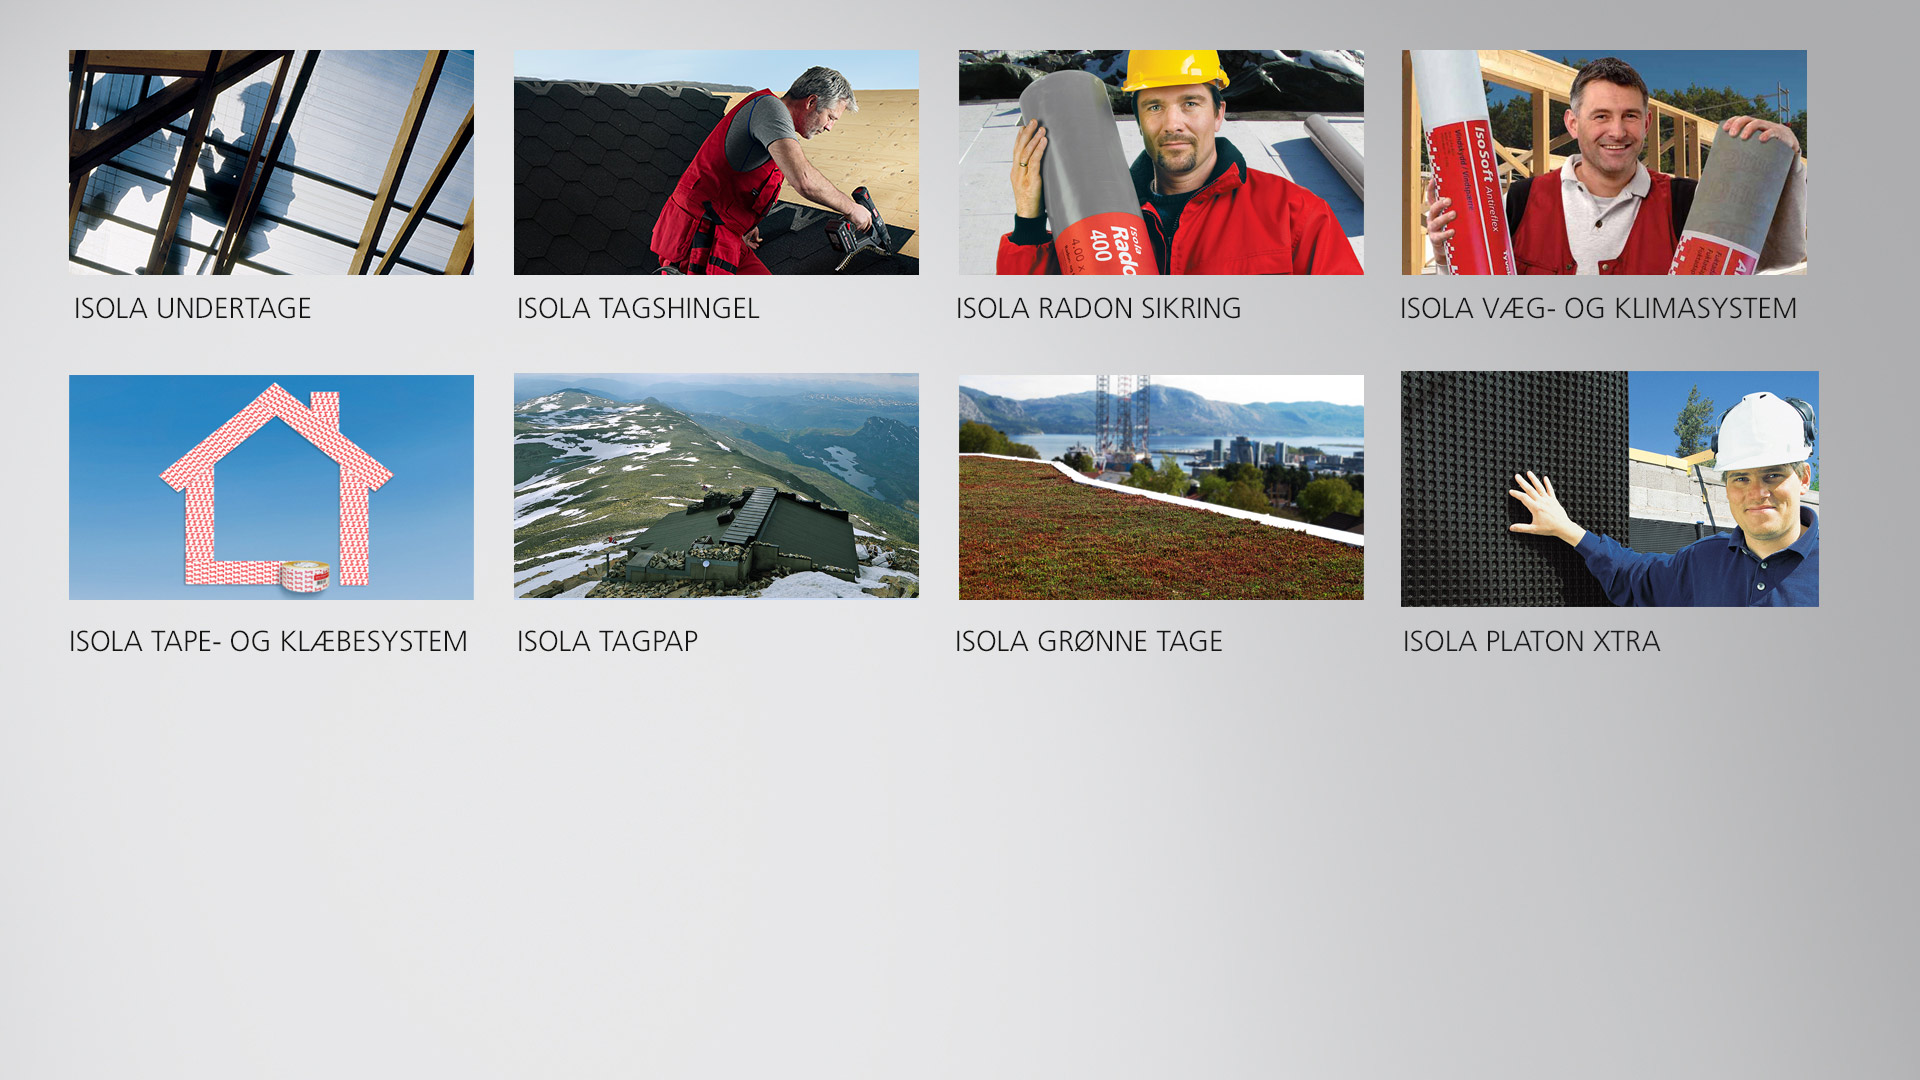
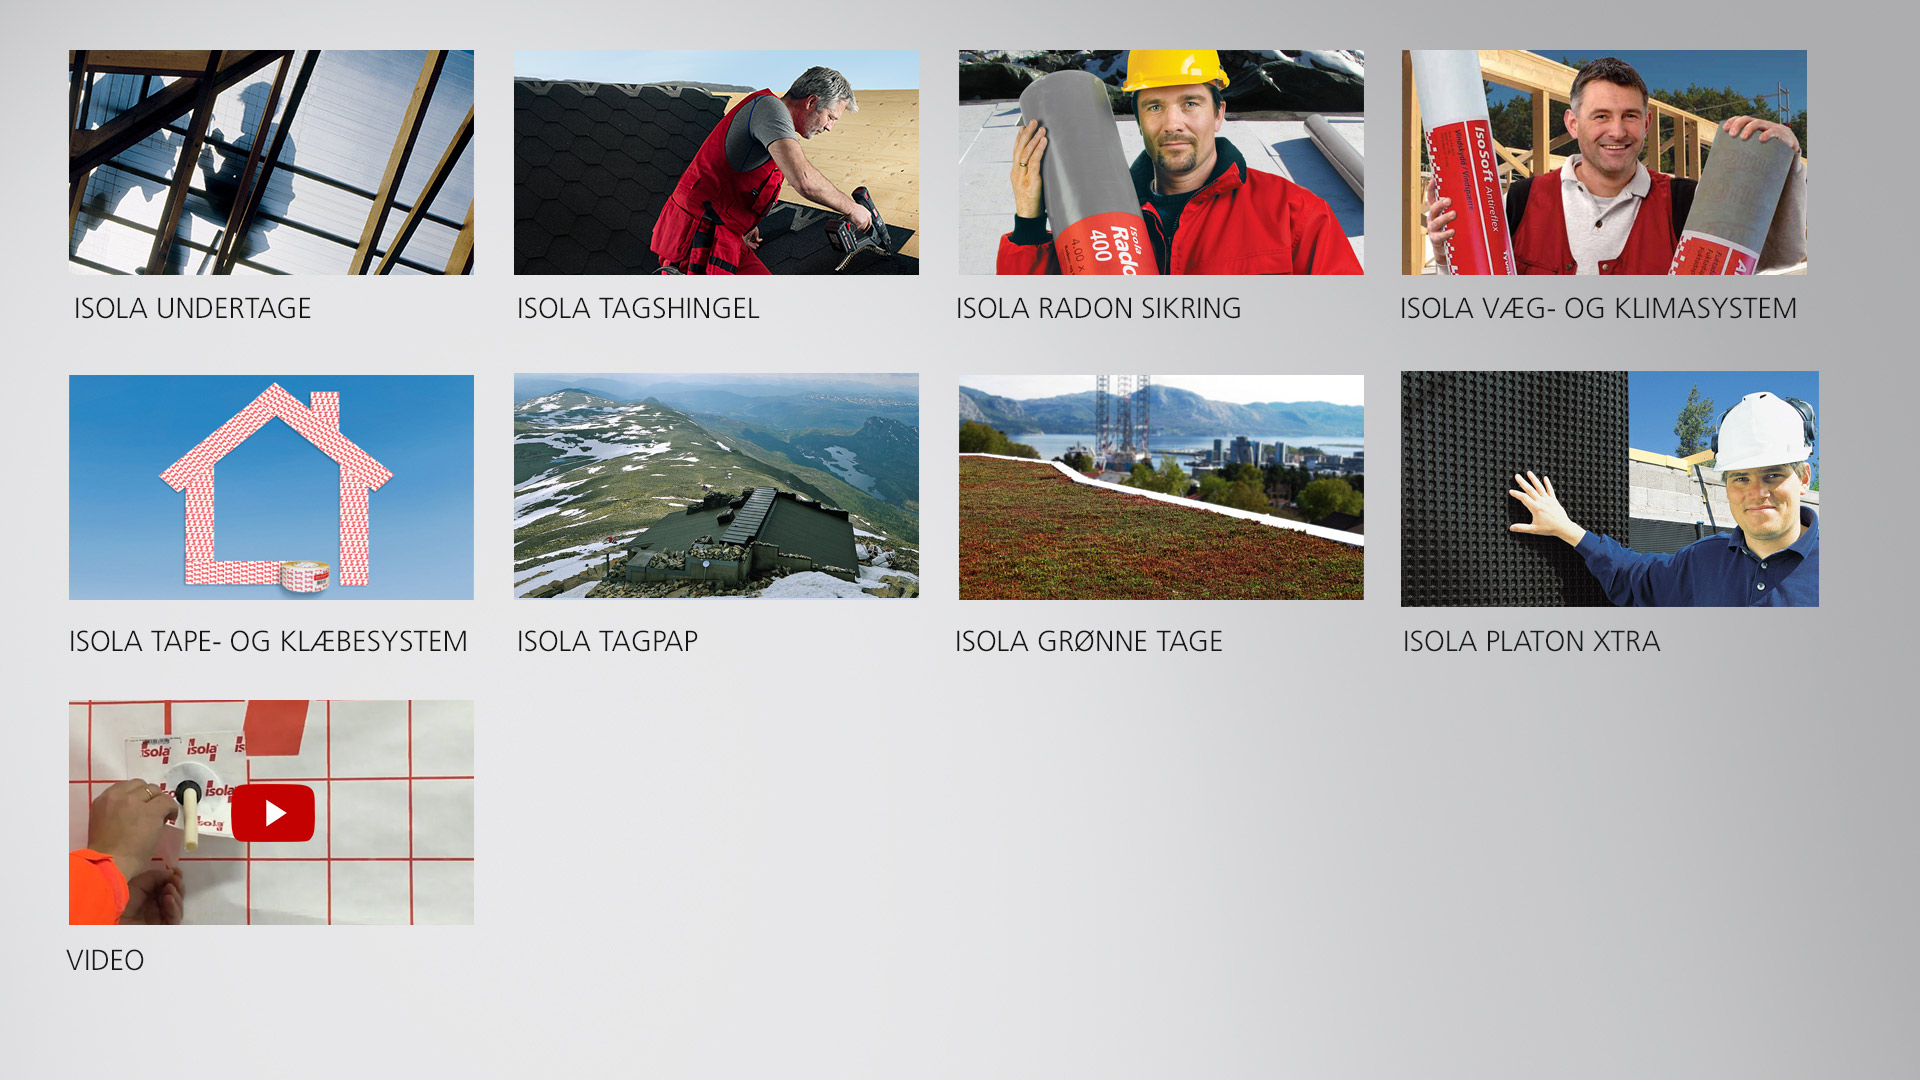
Update med video + run build

Changed region(s): [[0.0312, 0.6417, 0.25, 0.9167]]

diff --git a/presentation/VideoWall.jsx b/presentation/VideoWall.jsx
@@ -15,12 +15,12 @@ const images = {
 
 const links = [
     {x:270, y:160, link:"/videos/0"},
-    {x:270, y:490, link:"/videos/1"},
-    {x:710, y:160, link:"/videos/2"},
-    {x:710, y:490, link:"/videos/3"},
-    {x:1160, y:160, link:"/videos/4"},
-    {x:1160, y:490, link:"/videos/5"},
-    {x:1600, y:160, link:"/videos/6"},
+    {x:715, y:160, link:"/videos/1"},
+    {x:1168, y:160, link:"/videos/2"},
+    {x:1614, y:160, link:"/videos/3"},
+    {x:270, y:490, link:"/videos/4"},
+    {x:715, y:490, link:"/videos/5"},
+    {x:1168, y:490, link:"/videos/6"},
 ];
 
 preloader([images.oversikt]);
@@ -31,7 +31,7 @@ class Menu extends React.Component {
     render() {
         return (
             <Links className="clickable" links={links} >
-                <Link className="backLink" href="/0"> </Link>
+                <Link className="backLink" href="/"> </Link>
                 <Deck  progress="none" base="/" >
                     <Slide  bgImage={images.oversikt}>
                     </Slide>

diff --git a/presentation/menu.jsx b/presentation/menu.jsx
@@ -27,6 +27,8 @@ const links = [
     {x:1600, y:160, link:"/veggogklimasystem/0"},
     {x:1600, y:490, link:"/platonxtra/0"},
 
+    {x:270, y:810, link:"/videos"},
+
 
 ];
 
